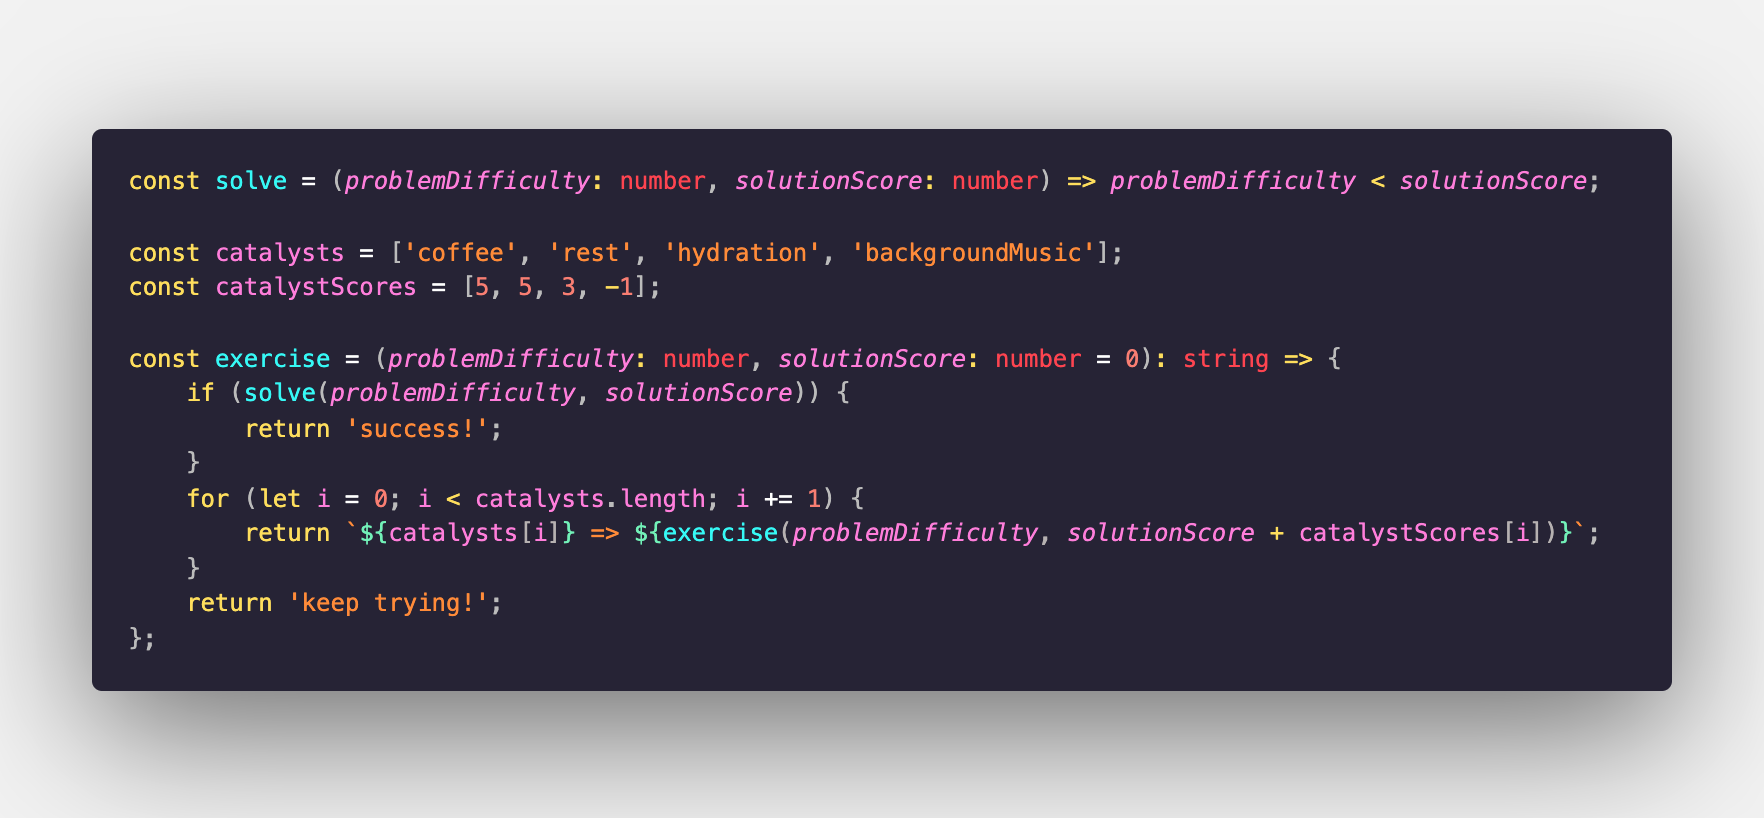
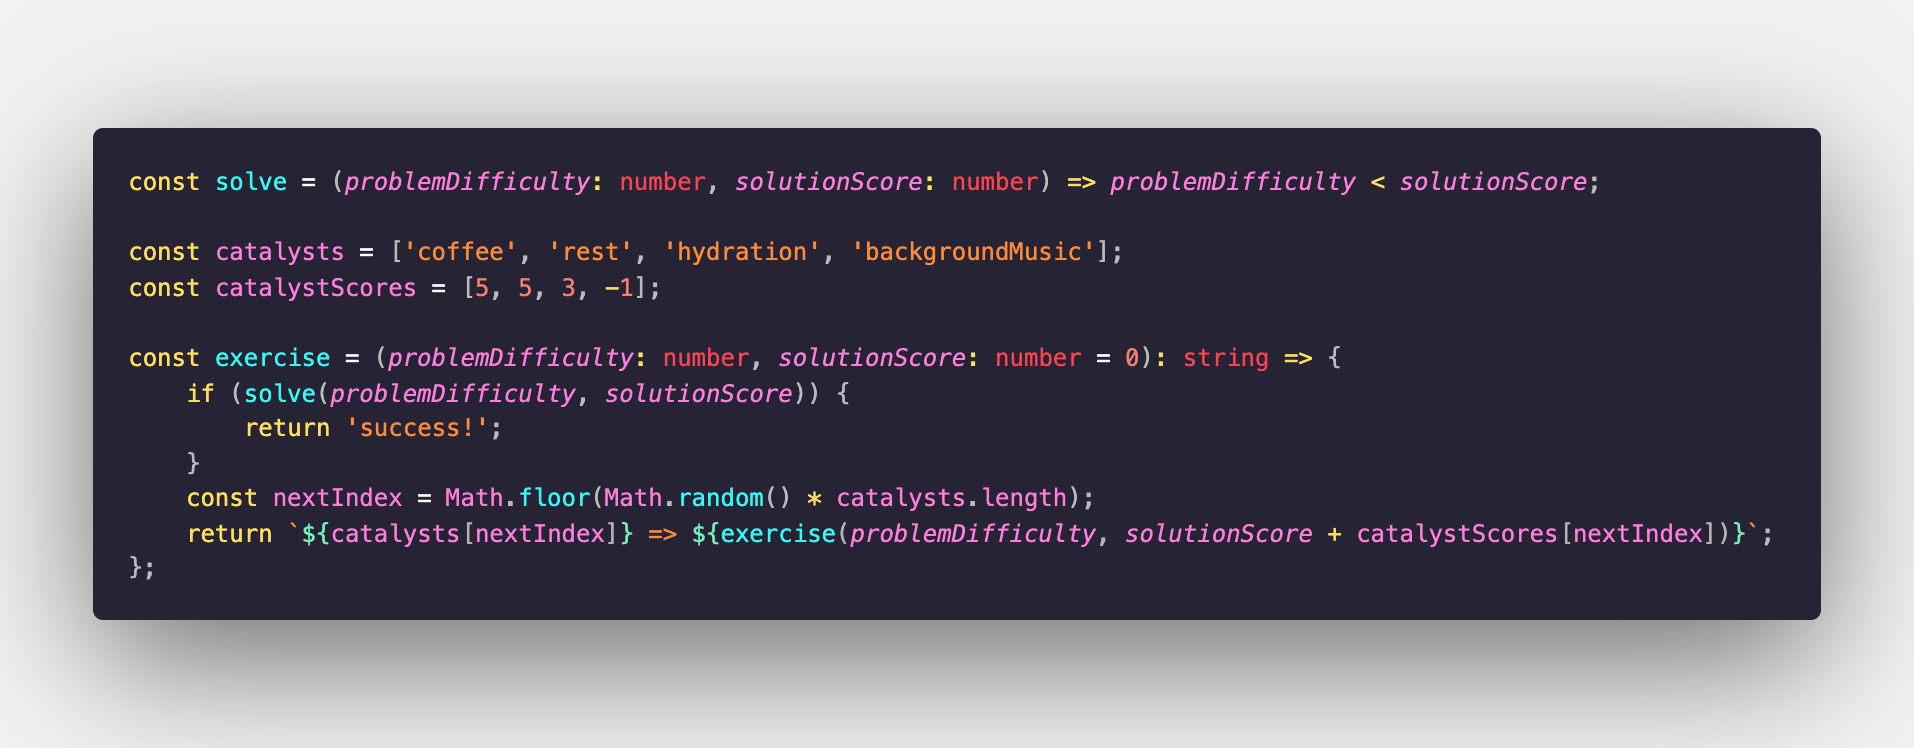
Coffee is a solution ☕

Changed region(s): [[0.0312, 0.1537, 0.9666, 0.861], [0.4365, 0.5842, 0.4677, 0.615]]

diff --git a/src/index.ts b/src/index.ts
@@ -13,10 +13,8 @@ const exercise = (problemDifficulty: number, solutionScore: number = 0): string 
     if (solve(problemDifficulty, solutionScore)) {
         return 'success!';
     }
-    for (let i = 0; i < catalysts.length; i += 1) {
-        return `${catalysts[i]} => ${exercise(problemDifficulty, solutionScore + catalystScores[i])}`;
-    }
-    return 'keep trying!';
+    const nextIndex = Math.floor(Math.random() * catalysts.length);
+    return `${catalysts[nextIndex]} => ${exercise(problemDifficulty, solutionScore + catalystScores[nextIndex])}`;
 };
 
 console.log(`And don't forget the formula of success: ${exercise(20, 0)}`);
